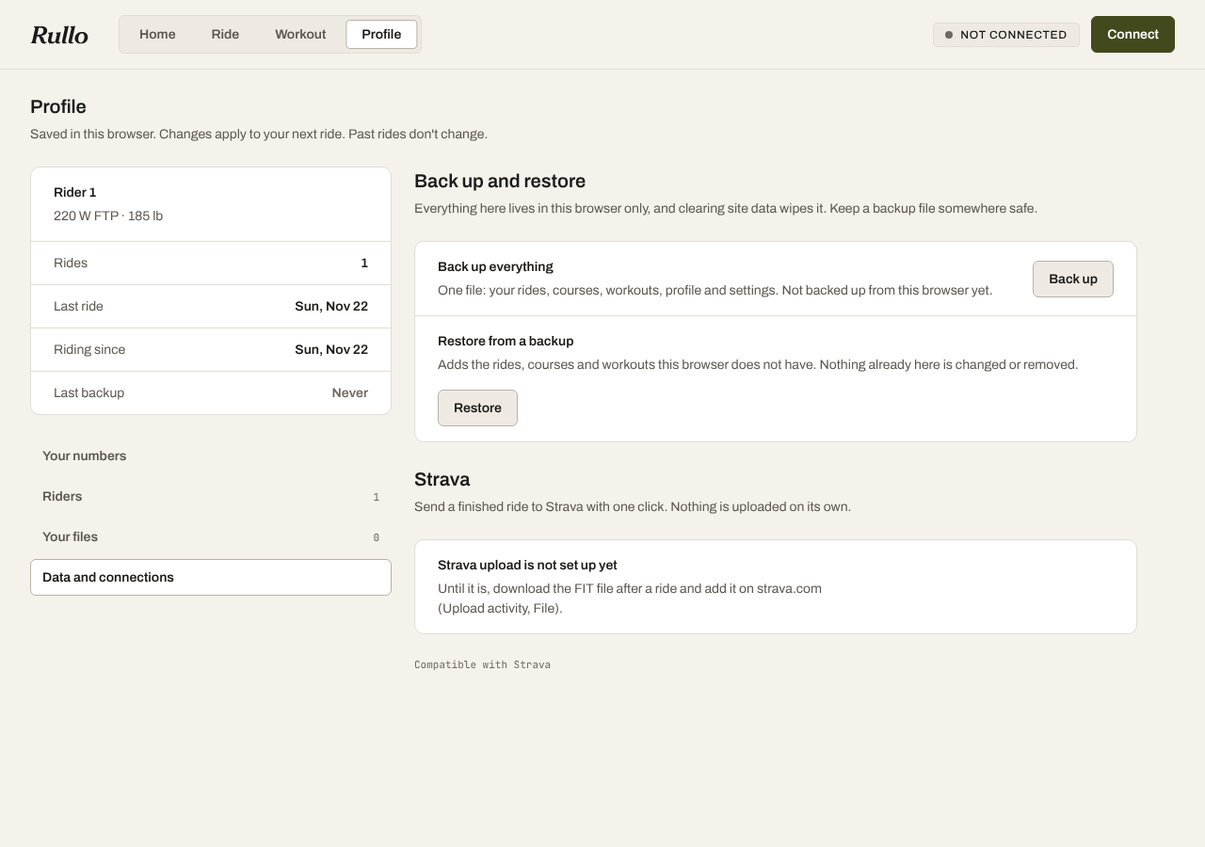
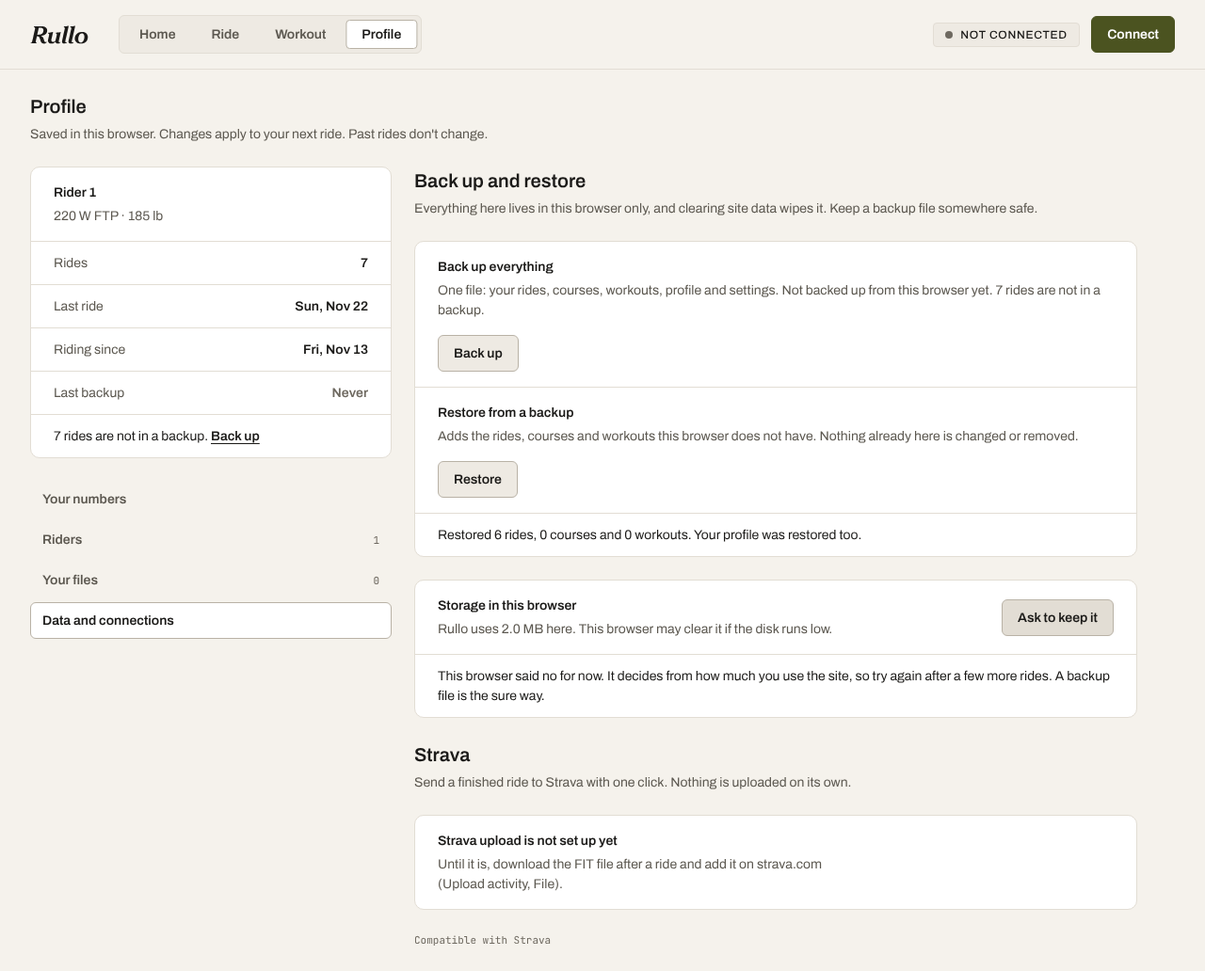
Profile tab pass 3: backup reminder and storage status
- From 5 rides that are in no backup, Home and the Profile rail say so,
  with a link to Back up. The Back up row counts them from the first
- A clean browser that restores a file counts that file as its backup
- Storage in this browser: how much the site uses and whether the browser
  has agreed not to clear it, with Ask to keep it while it has not

No ride or trainer code changed. See docs/profile.md.

Claude-Session: https://claude.ai/code/session_01Fy45Q7inhthMZ6VbcGRZ8r

diff --git a/src/components/ProfilePage.tsx b/src/components/ProfilePage.tsx
@@ -1,12 +1,13 @@
 import { useEffect, useMemo, useRef, useState, type ReactNode } from 'react'
 import { POSITIONS, type Position } from '../config'
 import { PROFILE_SECTIONS, profileHref, type ProfileSection } from '../hooks/useRoute'
-import { lastBackupAt } from '../lib/backup'
+import { BACKUP_NUDGE_RIDES, lastBackupAt, ridesSinceBackup } from '../lib/backup'
 import { dismissFtpSuggestion, FTP_SOURCE_LABEL, loadFtpHistory, SUGGEST_DAYS, suggestFtp } from '../lib/ftpHistory'
 import { loadHistory, peekHistory, type RideSummary } from '../lib/history'
 import { MPS_TO_MPH, steadySpeedMps } from '../lib/physics'
 import { hasSavedProfile, riderParams, type Profile } from '../lib/profile'
 import { dateOf } from '../lib/rideFormat'
+import { askToKeep, formatBytes, storageStatus, type StorageStatus } from '../lib/storage'
 import { MAX_RIDER_NAME_CHARS, MAX_RIDERS, type Riders } from '../lib/rider'
 import type { CourseOption, WorkoutOption } from '../lib/ride'
 import { formatDuration } from '../lib/workout'
@@ -359,6 +360,31 @@ export function ProfilePage({
 
   // Read again after a back up, a restore or a change to the numbers: each can change the answer.
   const backedUpAt = useMemo(() => lastBackupAt(), [backupNote])
+  const unsaved = rides ? ridesSinceBackup(rides, backedUpAt) : 0
+
+  /** What the browser says about this site's storage. Null until it answers; read again after a back up or a restore. */
+  const [storage, setStorage] = useState<StorageStatus | null>(null)
+  /** The outcome of asking the browser to keep the data, in plain words. */
+  const [keepNote, setKeepNote] = useState<string | null>(null)
+  useEffect(() => {
+    if (section !== 'data') return
+    let live = true
+    void storageStatus().then((st) => live && setStorage(st))
+    return () => {
+      live = false
+    }
+  }, [section, backupNote, ridePhase])
+  const onKeep = () => {
+    void askToKeep().then(async (kept) => {
+      setKeepNote(
+        kept
+          ? null
+          : 'This browser said no for now. Browsers decide this on their own, so it may say yes later. A backup file is the sure way.',
+      )
+      setStorage(await storageStatus())
+    })
+  }
+
   const starting = useMemo(() => !hasSavedProfile(), [profile, backupNote])
 
   /** Oldest first. Read again when the FTP changes, and after a restore, which can bring a history with it. */
@@ -398,6 +424,14 @@ export function ProfilePage({
               <Fact label="Riding since" value={since !== null ? day(since) : EMPTY} dim={since === null} />
               <Fact label="Last backup" value={backedUpAt !== null ? day(backedUpAt) : 'Never'} dim={backedUpAt === null} />
             </dl>
+            {unsaved >= BACKUP_NUDGE_RIDES && (
+              <p className="border-t border-line px-6 py-3 text-fg">
+                {unsaved} rides are not in a backup.{' '}
+                <a className="ww-link" href={profileHref('data')}>
+                  Back up
+                </a>
+              </p>
+            )}
           </section>
 
           <nav aria-label="Profile sections" className="flex flex-col gap-1">
@@ -666,7 +700,7 @@ export function ProfilePage({
                   label="Back up everything"
                   help={`One file: your rides, courses, workouts, profile and settings. ${
                     backedUpAt !== null ? `Last backed up ${day(backedUpAt)}.` : 'Not backed up from this browser yet.'
-                  }`}
+                  }${unsaved > 0 ? ` ${unsaved} ${unsaved === 1 ? 'ride is' : 'rides are'} not in a backup.` : ''}`}
                 >
                   <Button onClick={onBackup}>Back up</Button>
                 </Row>
@@ -693,6 +727,30 @@ export function ProfilePage({
                 {backupNote && (
                   <p className="border-t border-line px-6 py-3 text-fg" aria-live="polite">
                     {backupNote}
+                  </p>
+                )}
+              </section>
+
+              <section aria-label="Storage" className="rounded-lg border border-line bg-surface">
+                <Row
+                  label="Storage in this browser"
+                  help={
+                    storage === null
+                      ? 'Asking the browser.'
+                      : `${storage.usedBytes !== null ? `Rullo uses ${formatBytes(storage.usedBytes)} here. ` : ''}${
+                          storage.kept === true
+                            ? 'This browser has agreed not to clear it on its own. Clearing site data yourself still wipes it.'
+                            : storage.kept === false
+                              ? 'This browser may clear it if the disk runs low.'
+                              : 'This browser does not say whether it may clear it.'
+                        }`
+                  }
+                >
+                  {storage?.kept === false && <Button onClick={onKeep}>Ask to keep it</Button>}
+                </Row>
+                {keepNote && storage?.kept !== true && (
+                  <p className="border-t border-line px-6 py-3 text-fg" aria-live="polite">
+                    {keepNote}
                   </p>
                 )}
               </section>

diff --git a/src/lib/backup.ts b/src/lib/backup.ts
@@ -140,6 +140,22 @@ export function lastBackupAt(): number | null {
   }
 }
 
+function noteBackupAt(t: number): void {
+  try {
+    localStorage.setItem(LAST_BACKUP_KEY, String(t))
+  } catch {
+    // storage unavailable: nothing to note it in
+  }
+}
+
+/** From this many rides with no backup, Home and the Profile tab say so. */
+export const BACKUP_NUDGE_RIDES = 5
+
+/** How many of these rides started after the rider's last backup: all of them when there has been none. */
+export function ridesSinceBackup(rides: { startedAt: number }[], at: number | null = lastBackupAt()): number {
+  return at === null ? rides.length : rides.filter((r) => r.startedAt > at).length
+}
+
 /** Build the backup and hand it to the browser as a download. */
 export async function downloadBackup(): Promise<BackupCounts> {
   const { file, counts } = await buildBackup()
@@ -151,11 +167,7 @@ export async function downloadBackup(): Promise<BackupCounts> {
   a.click()
   a.remove()
   setTimeout(() => URL.revokeObjectURL(url), 10000)
-  try {
-    localStorage.setItem(LAST_BACKUP_KEY, String(file.exportedAt))
-  } catch {
-    // storage unavailable: the file was still made
-  }
+  noteBackupAt(file.exportedAt)
   return counts
 }
 
@@ -301,7 +313,11 @@ export async function restoreBackup(file: File): Promise<RestoreResult> {
   // computer. A browser that already has rides keeps its own, and what is restored joins it.
   // Not when another rider on this browser already has that id: then the rows simply join whoever is riding.
   const adopt = riderId !== null && !knownRiderIds().includes(riderId) && (await recorder.nothingSaved()) ? riderId : undefined
+  // With nothing saved here before, every ride after the restore is in this file: the file is the last backup.
+  const wasEmpty = await recorder.nothingSaved()
   const counts = await recorder.importRows(rows, adopt)
+  const exportedAt = isObject(data) ? data.exportedAt : null
+  if (wasEmpty && isNum(exportedAt) && exportedAt > 0 && exportedAt <= Date.now() && lastBackupAt() === null) noteBackupAt(exportedAt)
   // The name comes along with the id, unless another rider here has it.
   if (adopt && riderName) renameRider(adopt, riderName)
   let profile: Profile | null = null

diff --git a/src/lib/storage.ts b/src/lib/storage.ts
@@ -1,0 +1,52 @@
+/**
+ * What the browser says about this site's storage: how much is used, and
+ * whether it has promised not to clear it on its own. Rides, courses and
+ * workouts all live here, so the Profile tab shows both.
+ *
+ * A browser may clear a site's data when the disk runs low unless the site
+ * has been granted persistent storage. Chrome and Edge decide that without
+ * asking the rider (how they decide is not documented, so the app only reports
+ * the answer); other browsers may show a prompt, so it is only ever
+ * asked for from a button.
+ */
+
+export interface StorageStatus {
+  /** Bytes this site uses, or null when the browser will not say. */
+  usedBytes: number | null
+  /** True: the browser will not clear this site on its own. False: it may. Null: it will not say. */
+  kept: boolean | null
+}
+
+export async function storageStatus(): Promise<StorageStatus> {
+  const out: StorageStatus = { usedBytes: null, kept: null }
+  try {
+    const est = await navigator.storage?.estimate?.()
+    if (est && typeof est.usage === 'number') out.usedBytes = est.usage
+  } catch {
+    // not available: say nothing about size
+  }
+  try {
+    const kept = await navigator.storage?.persisted?.()
+    if (typeof kept === 'boolean') out.kept = kept
+  } catch {
+    // not available: say nothing about the promise
+  }
+  return out
+}
+
+/** Ask the browser to keep this site's data. Returns its answer: false is a no, null is no answer. */
+export async function askToKeep(): Promise<boolean | null> {
+  try {
+    const kept = await navigator.storage?.persist?.()
+    return typeof kept === 'boolean' ? kept : null
+  } catch {
+    return null
+  }
+}
+
+/** "0.4 MB", "12 MB", "1.2 GB". */
+export function formatBytes(n: number): string {
+  const mb = n / (1024 * 1024)
+  if (mb >= 1024) return `${(mb / 1024).toFixed(1)} GB`
+  return `${mb >= 10 ? Math.round(mb) : mb.toFixed(1)} MB`
+}

diff --git a/src/components/HomePage.tsx b/src/components/HomePage.tsx
@@ -15,7 +15,8 @@ import {
   type Totals,
 } from '../lib/history'
 import { dateOf, feet, hms, miles, setupOf } from '../lib/rideFormat'
-import { summaryHref } from '../hooks/useRoute'
+import { profileHref, summaryHref } from '../hooks/useRoute'
+import { BACKUP_NUDGE_RIDES, ridesSinceBackup } from '../lib/backup'
 import type { RideSnapshot } from '../lib/ride'
 import { Button } from './Button'
 import { Stat } from './Stat'
@@ -131,6 +132,8 @@ export function HomePage({ s, riderName, onSetup, onRide }: HomePageProps) {
   const prs = useMemo(() => (rides && complete ? prsByRide(rides) : new Map<number, BestWindow[]>()), [rides, complete])
 
   const next = nextStep(s)
+  /** Rides that are in no backup. Waits for the full list, like the totals. */
+  const unsaved = useMemo(() => (rides && complete ? ridesSinceBackup(rides) : 0), [rides, complete])
 
   const onDownload = (r: RideSummary) => {
     setMessage(null)
@@ -184,6 +187,17 @@ export function HomePage({ s, riderName, onSetup, onRide }: HomePageProps) {
               {next.ride ? 'Go to Ride' : 'Set up a ride'}
             </Button>
           </section>
+
+          {unsaved >= BACKUP_NUDGE_RIDES && (
+            <section aria-label="Back up" className="rounded-lg border border-line bg-surface px-6 py-4">
+              <p className="text-fg">
+                {unsaved} rides are not in a backup. They live in this browser only.{' '}
+                <a className="ww-link" href={profileHref('data')}>
+                  Back up
+                </a>
+              </p>
+            </section>
+          )}
 
           {rides && rides.length > 0 && (
             <section aria-label="Totals" className="rounded-lg border border-line bg-surface">

diff --git a/DESIGN.md b/DESIGN.md
@@ -165,14 +165,14 @@ A change of what is on the page is drawn as a move from the old layout to the ne
 ## Layout
 
 - **Top bar:** the Rullo wordmark (the solid version at `ww-wordmark-height`, 20px, in `fg`; a link to Home) and the page tabs (Home, Ride, Workout, Profile) left. With more than one rider on the browser, the current rider's name sits before the StatusPill in `ww-label`, truncated at 14 characters, a link to the Profile tab; from 1280px wide only, so the bar stays one row. With one rider it is not shown. StatusPill and the ride button right, on every page. The rightmost slot is the ride's next step: Connect (primary), then Start ride or Start workout (primary, with a secondary Disconnect to its left), then End Ride (secondary, two clicks), then Download FIT and New ride. Start has no row of its own, so it costs no height in any ride type and both labels are in one place. Connect or Start from another page jumps to Ride. A click on End Ride in the first second after Start is ignored, so a double click on Start cannot arm it. A click on New ride in the first second after Confirm end is ignored the same way.
-- **Home page (`#/`, where the app opens):** laid out after Zwift's home screen and drawn with this system's tokens: a left rail and a main column (`.ww-home`: the rail is `--ww-home-rail`, 384px; under 1200px the rail goes on top with its two panels side by side, so the history rows keep the full width; one column under 900px), capped at `max-w-7xl`, left-aligned under an `h1` "Home". Every block is its own `surface` panel with a body-size, weight 600 heading; no panel sits inside another. The rail: **Rider** (the rider's name as the heading, `Stat` for FTP in W and weight in lb, one `fg-muted` line "Set on the Profile tab.") and **Power zones** (`ZoneTable`). The main column, top to bottom: **Next** (one `fg-muted` sentence and the page's one primary button, "Set up a ride" or "Go to Ride"); **Totals** (two rows split by a hairline, "All rides" and "Last 7 days", each a wrapping row of `Stat`: Rides, Time, Distance in mi, Climbed in ft; shown only when there is a ride; "--" in `fg-subtle` while rides are still being read, so nothing moves when the numbers land); **Power bests** (heading, one line of help, then a wrapping row of four `Stat`: 5 s, 1 min, 5 min, 20 min in W, each over a mono `fg-subtle` line with the day it was set, or "no ride this long"; shown only when there is a ride); **Ride history** (heading, one line of help, then the ride history table). With no rides the history panel is its heading and one plain line, and there is no Totals panel. Nothing on Home changes a ride in progress; the only thing it can change is deleting a finished ride. On Home every top bar button is secondary (Connect, Start, Reconnect, Download FIT), so the page keeps one primary.
+- **Home page (`#/`, where the app opens):** laid out after Zwift's home screen and drawn with this system's tokens: a left rail and a main column (`.ww-home`: the rail is `--ww-home-rail`, 384px; under 1200px the rail goes on top with its two panels side by side, so the history rows keep the full width; one column under 900px), capped at `max-w-7xl`, left-aligned under an `h1` "Home". Every block is its own `surface` panel with a body-size, weight 600 heading; no panel sits inside another. The rail: **Rider** (the rider's name as the heading, `Stat` for FTP in W and weight in lb, one `fg-muted` line "Set on the Profile tab.") and **Power zones** (`ZoneTable`). The main column, top to bottom: **Next** (one `fg-muted` sentence and the page's one primary button, "Set up a ride" or "Go to Ride"); **Back up** (only from 5 rides that are in no backup: a one-line panel, an `fg` sentence and the `.ww-link` Back up, which opens the Profile tab's Data and connections; no button, so the page keeps one primary); **Totals** (two rows split by a hairline, "All rides" and "Last 7 days", each a wrapping row of `Stat`: Rides, Time, Distance in mi, Climbed in ft; shown only when there is a ride; "--" in `fg-subtle` while rides are still being read, so nothing moves when the numbers land); **Power bests** (heading, one line of help, then a wrapping row of four `Stat`: 5 s, 1 min, 5 min, 20 min in W, each over a mono `fg-subtle` line with the day it was set, or "no ride this long"; shown only when there is a ride); **Ride history** (heading, one line of help, then the ride history table). With no rides the history panel is its heading and one plain line, and there is no Totals panel. Nothing on Home changes a ride in progress; the only thing it can change is deleting a finished ride. On Home every top bar button is secondary (Connect, Start, Reconnect, Download FIT), so the page keeps one primary.
 - **Ride summary (`#/rides/<id>`):** a side trip from Home (the Home tab stays current in the top bar). One panel, split by hairlines, capped at `max-w-7xl`. Top to bottom: a header row (← Home, the day and start time as the title with a PR chip when the ride set one, a mono `fg-subtle` line with the course and workout, then Delete with its two-press `danger` confirm and the page's one primary, Download FIT); a wrapping row of `Stat` (Moving time, Distance in mi, Climbed in ft on a course ride, Avg power, Max power, Work in kJ, Avg cadence, and Avg and Max heart rate in bpm when the ride has any); **The ride** (one `RideChart` row each for Power, Cadence, Heart rate when there is any, and Elevation on a course ride, stacked over one shared mono time axis); **Time in zone** (the zone bars, at the FTP the ride was ridden at when the ride saved one, else today's; the help line says which); **Power bests** (four `Stat`, each over a PR chip when it was one). The top bar's buttons are secondary here. A ride that is not saved here shows a title, one sentence and a primary ← Home.
 - **Ride page (`#/ride`):** live data only: the ride panel, plus notices (recovery, errors). No pickers.
 - **Workout page (`#/workout`):** two steps, one at a time, under a mono "Step n of 2", the step title and one line of help. What is picked here is staged: it reaches the Ride tab only through Ride this workout or Done. The setup line says so in plain words. Its first row is the `ww-label` "Picked", the setup name and a mono detail; under it, in `fg-muted`, either "This is on the Ride tab now." or "Not on the Ride tab yet. The Ride tab has Flat road · Free ride." (naming what the Ride tab has). The setup can be changed until Start is pressed, with the trainer connected or not. Locked from Start until New ride (the ride's own setup line only, labeled Riding or Last ride).
   - **Step 1, the course:** a grid of cards on the page, the same card as step 2 (2 columns, 3 from 1280px, 4 from 1536px): Flat road first (a `line-strong` baseline where the profile would be), then one card per course with a small elevation profile (48px, `raised` fill, `fg-subtle` line), the name, and a mono line with miles, feet of climbing and source. The card picked on this tab is `raised` with an `fg` border (picked, not yet on the Ride tab). Under the grid, the selected course's overview in one panel: name, `CourseOverview`, and the start mile. Then the setup line in its own panel with Next (primary).
   - **Step 2, the workout library** (laid out after Zwift's Workouts page): a side menu on the left (All workouts, Custom, each with a mono count; the current one is a `surface` chip with a `line-strong` border, as in TabNav), then the filter row (Length and Difficulty, both SegmentedControl, and a mono count) over a grid of cards (2 columns, 3 from 1280px, 4 from 1536px). Cards sit straight on the page (`bg`), never inside a panel. The first card is always the Custom Workout tile (`raised`, `line-strong` border, a plus, the name at title size); then Free ride; then one card per workout: a small `WorkoutStrip` without labels (48px), the name, and a mono line with length, difficulty and source. The card of the picked workout (or Free ride) is `raised` with an `fg` border. Clicking a workout card opens its **overview** in place of the grid; looking does not pick it. Ride this workout picks it, puts the course and that workout on the Ride tab and goes there. The Free ride card picks "no workout" and stays on the page. The overview's mono line adds "on the Ride tab now" for the workout the Ride tab has: one panel with ← All workouts and the name, `Stat inline` for duration and intervals, the buttons (Edit for a custom workout, Edit a copy, Delete with a `danger` confirm for the rider's own, and the primary Ride this workout), the description, and the strip at `ww-builder-graph` height. Under both, the setup line in its own panel with Back, and "Done: go to Ride" (primary) when no overview is open, so there is one primary per screen. Done puts exactly the setup line beside it on the Ride tab. No import buttons here.
 - **Workout builder (`#/workout/build`):** a side trip from the Workout tab (the Workout tab stays current in the top bar). One panel, laid out after Zwift's workout editor and drawn with this system's tokens. Top to bottom, split by hairlines: a header row (← Back, the workout's name as the title in `ww-title-field`, a mono note); the details (Description left, the Difficulty tag right); the block area (`BuilderGraph`: the selected block's fields in a bordered `surface` box right above it, the graph, the block palette on the right, then Undo, Delete block and the key hint); the bottom bar (Display: % FTP / Watts, `Stat inline` for workout duration and intervals, a mono line, and the Step list toggle); the optional step list (`StepRow`, `RepeatGroup`, the add row); and a footer row with status text left and Save (primary) right. Back turns into `danger` "Discard changes" on the first click when there is unsaved work. The page may scroll. Locked mid-ride (one line in a panel).
-- **Profile page (`#/profile`, and `#/profile/riders`, `/files`, `/data`):** the Home grid again (`.ww-home`: a 384px rail and a main column; under 1200px the rail goes on top with its two blocks side by side; one column under 900px), capped at `max-w-7xl`, left-aligned under an `h1` "Profile" and one line of help. **The rail:** the Rider panel (the rider's name as the heading, one `fg-muted` line with FTP in W and weight in lb, then four hairline rows, label in `fg-muted` left and the value in weight 600 right: Rides, Last ride, Riding since, Last backup; "--" in `fg-subtle` while rides are read, "Never" and "None yet" in `fg-subtle`), then the section menu straight on the page: four links in the Workout library's side-menu pattern (the current one is a `surface` chip with a `line-strong` border; Riders and Your files carry a mono count). **The main column** shows one section at a time, capped at `max-w-3xl`: a title-size heading, one line of help, then its panels. No panel sits inside another. *Your numbers* (the default): a one-line panel "These are starting numbers, not yours…" until the rider first sets a number; a panel with Rider weight, Bike weight and Riding position rows (label and help left, input right) ending in the block "On the road at 200 W" (three `Stat`: Flat road and 5% climb in mph, You and the bike in lb; they follow the rows above as they change); a second panel with the FTP row (under its help, a mono `fg-subtle` line with the day it was set and how: "set Sun, Nov 22 · ramp test") and Power zones (`ZoneTable` under FTP, so it follows the FTP as it changes); between the two, only when the rider's best 20 minutes of the last 60 days points above their FTP, one row "Your rides point to a higher FTP" (heading, one `fg-muted` sentence with the numbers, then secondary Not now and secondary "Set FTP to 247 W"; never a primary, and the FTP never changes without that press); a third panel, FTP history: heading, one line of help, then a plain table (`.ww-table .ww-history`), newest first: the day in weight 600, how it was set in `fg-muted` (Typed, Ramp test, Best 20 minutes), the change in mono `fg-muted` ("up 27 W from 220"), and the FTP right-aligned in weight 600 `tabular-nums`; 8 rows, then a footer row with a count and a `size="sm"` Show all. *Riders*: "Who's riding", one panel in the files-row pattern: a header row (heading, one line of help, a secondary Add rider), then one row per rider split by hairlines. The current rider's row is their name in a `TextField` (weight 600, saved when the field is left) and a mono `fg-muted` "riding now". Every other rider's row is the name in weight 600 with secondary Switch and Remove. One `fg` line under the rows says what happened, or, while the trainer is connected or a ride is on, that switching is locked (Switch, Add rider and Remove are disabled then). Switching and adding reload the page. *Your files*: one panel with a Courses block and a Workouts block, each a heading, one line of help and its buttons (Import GPX; Custom Workout and Import ZWO), followed by the rider's own files as rows: a custom workout has Edit and Remove (Remove asks twice, `danger` "Confirm remove"), an imported workout has Edit a copy and Remove, an imported course has Remove. *Data and connections*: "Back up and restore" (one panel, two rows: Back up everything with a secondary Back up, its help ending with the day of the last backup or "Not backed up from this browser yet."; Restore from a backup with a secondary Restore; after either is used, one `fg` line saying what happened; Restore is locked mid-ride), then `StravaBlock`. Mid-ride, a one-line panel at the top of the main column says the profile is locked. The page has no primary button; the top bar keeps its own.
+- **Profile page (`#/profile`, and `#/profile/riders`, `/files`, `/data`):** the Home grid again (`.ww-home`: a 384px rail and a main column; under 1200px the rail goes on top with its two blocks side by side; one column under 900px), capped at `max-w-7xl`, left-aligned under an `h1` "Profile" and one line of help. **The rail:** the Rider panel (the rider's name as the heading, one `fg-muted` line with FTP in W and weight in lb, then four hairline rows, label in `fg-muted` left and the value in weight 600 right: Rides, Last ride, Riding since, Last backup; from 5 rides that are in no backup, a fifth row: one `fg` sentence ("7 rides are not in a backup.") and the `.ww-link` Back up, which opens Data and connections; "--" in `fg-subtle` while rides are read, "Never" and "None yet" in `fg-subtle`), then the section menu straight on the page: four links in the Workout library's side-menu pattern (the current one is a `surface` chip with a `line-strong` border; Riders and Your files carry a mono count). **The main column** shows one section at a time, capped at `max-w-3xl`: a title-size heading, one line of help, then its panels. No panel sits inside another. *Your numbers* (the default): a one-line panel "These are starting numbers, not yours…" until the rider first sets a number; a panel with Rider weight, Bike weight and Riding position rows (label and help left, input right) ending in the block "On the road at 200 W" (three `Stat`: Flat road and 5% climb in mph, You and the bike in lb; they follow the rows above as they change); a second panel with the FTP row (under its help, a mono `fg-subtle` line with the day it was set and how: "set Sun, Nov 22 · ramp test") and Power zones (`ZoneTable` under FTP, so it follows the FTP as it changes); between the two, only when the rider's best 20 minutes of the last 60 days points above their FTP, one row "Your rides point to a higher FTP" (heading, one `fg-muted` sentence with the numbers, then secondary Not now and secondary "Set FTP to 247 W"; never a primary, and the FTP never changes without that press); a third panel, FTP history: heading, one line of help, then a plain table (`.ww-table .ww-history`), newest first: the day in weight 600, how it was set in `fg-muted` (Typed, Ramp test, Best 20 minutes), the change in mono `fg-muted` ("up 27 W from 220"), and the FTP right-aligned in weight 600 `tabular-nums`; 8 rows, then a footer row with a count and a `size="sm"` Show all. *Riders*: "Who's riding", one panel in the files-row pattern: a header row (heading, one line of help, a secondary Add rider), then one row per rider split by hairlines. The current rider's row is their name in a `TextField` (weight 600, saved when the field is left) and a mono `fg-muted` "riding now". Every other rider's row is the name in weight 600 with secondary Switch and Remove. One `fg` line under the rows says what happened, or, while the trainer is connected or a ride is on, that switching is locked (Switch, Add rider and Remove are disabled then). Switching and adding reload the page. *Your files*: one panel with a Courses block and a Workouts block, each a heading, one line of help and its buttons (Import GPX; Custom Workout and Import ZWO), followed by the rider's own files as rows: a custom workout has Edit and Remove (Remove asks twice, `danger` "Confirm remove"), an imported workout has Edit a copy and Remove, an imported course has Remove. *Data and connections*: "Back up and restore" (one panel, two rows: Back up everything with a secondary Back up, its help ending with the day of the last backup or "Not backed up from this browser yet."; Restore from a backup with a secondary Restore; after either is used, one `fg` line saying what happened; Restore is locked mid-ride; the Back up row's help also counts the rides that are in no backup), then a Storage panel (one row, "Storage in this browser": how much the site uses and whether the browser has agreed not to clear it; a secondary "Ask to keep it" only while the browser says it may clear it, and one `fg` line under a hairline when it says no), then `StravaBlock`. Mid-ride, a one-line panel at the top of the main column says the profile is locked. The page has no primary button; the top bar keeps its own.
 - **One ride panel:** hero power tile on the left (two fifths of the width at 1280px and up), five tiles on the right in two rows, split by `line` hairlines: Cadence, Heart rate and Speed on top (9 : 8 : 8, Cadence a little wider for its cue), Distance and Time below at half width each (they hold the long values, 112.34 mi and 1:23:45). The Heart rate tile is always there, so the layout never changes: "--" with a Connect control in its label row when there is no sensor. On a course, a full-width elevation profile row comes next; with a workout, a workout row. With both, both rows show in compact form: labels sit beside their numbers on one line (`Stat inline`), the profile is 48px and the strip 56px, and the workout name truncates before anything wraps. A full-width control row sits along the bottom. All rows are in the same panel, split by hairlines. When the workout's current interval has a cadence target, the Cadence tile's label row shows it in mono ("target 90"; the tile's unit is rpm): `fg-muted` before the workout starts, then `state-on`, `state-under` or `state-over` within or outside 5 rpm, always with the word (on, under, over) so color is never the only signal. It is a cue; the trainer never gets it. On a course, the right end of the course row's stats line says what the course is setting, in `fg-muted`: "The course sets speed, not the load." or, in Grade, "The course sets speed and the load." Before the workout starts, the right end of the workout row reads "Connect to start" or "Press Start workout" (not in compact form); the button itself is in the top bar.
 - **Fit a laptop:** at 1280x720 the control row and its key hint must stay on screen in every ride type. With a course or workout row the tiles and control row use 16px vertical padding (24px on a free ride). The control row status is always two lines, one line each, so nothing moves when the words change: who sets the load (`fg`), then the detail (`fg-muted`): "Press Start ride.", "Paused. Pedal to resume.", "Released until 60 rpm.", "Easing in to target", "Intensity, every target", "Hill feel · trainer 3.2%", "Workout targets are off.", "Refused. Retrying." At 1280 on a course the status has about 180px: keep every line under 160px (about 24 characters) so the key hint stays on one line. The key hint is the same in every mode ("↑↓ 1 · +/− 5 · shift ↑↓ 10 · E mode"); the unit is on the value beside it. Below 1280 wide the page may scroll with a course or workout row; Nate accepted that on Nov 21, 2026, so do not remove a number or a row to make 1024 fit.
 - Left-aligned. No centered hero layouts.
@@ -186,7 +186,7 @@ A change of what is on the page is drawn as a move from the old layout to the ne
 | Tile link (`.ww-tile-link`) | A text control in a tile's label row, for the Heart rate tile only: label type (12px, uppercase) in `fg`, underlined, `fg-muted` on hover, so the row keeps its 16px line and the panel its height. One button for every sensor state: Connect, Connecting (plain `fg-muted`, not pressable), Disconnect, Reconnecting (`state-under`; pressing it stops the retries), Retry. It is never a `Button`: a button would make the tile taller than 1280x720 allows. 8px of padding on each side widens the click target without moving anything. |
 | `StravaBlock` | The Profile tab's Strava section, the last block on the page: a heading with one line of help, then one panel with one row. Not set up: "Strava upload is not set up yet" and how to upload by hand. Not connected: one line of help and Strava's own connect button (see The Strava exception). Connected: "Connected as" the athlete's name, and a secondary Disconnect. A message (sign-in cancelled, access removed) is one `fg` line under a hairline in the same panel. Connecting leaves the page, so mid-ride the row says to end the ride first. |
 | `StravaUpload` | The ended ride's Strava slot in the top bar, left of Download FIT. One of: **Upload to Strava** (the screen's primary; Download FIT turns secondary so there is still one), a disabled button that says what is happening ("Uploading to Strava", "Strava is processing"), **Check upload** when Strava is still working after a minute, the `ww-label` "Uploaded" or "Already on Strava" with the **View on Strava** link (`.ww-link`; Download FIT is primary again), or a secondary **Connect Strava to upload** that goes to Profile. Not shown at all when Strava is not set up, for a fake-trainer ride, or when nothing was recorded. A failure is a notice above the ride panel in plain words. |
-| Link (`.ww-link`) | A text link in a bar or a sentence: weight 600, underlined, `fg`, `fg-muted` on hover. Used for View on Strava. |
+| Link (`.ww-link`) | A text link in a bar or a sentence: weight 600, underlined, `fg`, `fg-muted` on hover. Used for View on Strava, and for Back up in the backup reminder on Home and in the Profile rail. |
 | `StatusPill` | Connection and ride state. `busy` makes the dot breathe (Connecting, Reconnecting); the width eases and the label crossfades when the words change (see Motion). Tones: `on` (Connected: a ride is on and recording), `warn` (Connecting, Reconnecting, Not recording: connected and waiting for Start), `error` (Disconnected, Not supported), `idle` (Not connected, Paused, Ride ended). |
 | `Button` | `primary` (Olive, one per screen), `secondary`, `danger` (the second click of a two-click confirm: End Ride, Discard changes, Confirm remove, Confirm delete; hover goes to `surface` so the red text keeps 4.5:1). `size="sm"` (8px by 4px padding) only for dense rows: the builder's step rows and the ride history rows. |
 | `SegmentedControl` | Small option sets, like the 1s / 3s / 10s smoothing toggle. Selected option is a `surface` chip with a `line-strong` border; hover only darkens text. The chip is one element that slides to the selected option (see Motion). One Tab stop, Left / Right arrows move the selection. |

diff --git a/CLAUDE.md b/CLAUDE.md
@@ -2,7 +2,7 @@
 
 Read `Weem Watts App Scope.md` and `DESIGN.md` before any work. Use only DESIGN.md tokens and components. Stay inside the current phase.
 
-- **Current phase:** v3.2, Workouts (built, ride test pending). v1 and v1.5 have shipped. v2 and v3.1 are built; their ride tests are pending (Nate chose to build ahead). Do not start v3.3 until v3.2 has been ride-tested. Exception, Nov 20, 2026: Nate asked for Grade mode (the trainer follows course hills when no workout is picked), which is part of v4; it is built and its ride test is pending too. Second exception, Nov 20, 2026: Nate asked for the workout builder (the step-list editor from "Later", with cadence cues); it is built ahead of the v3.2 ride test and its own ride test is pending. See `docs/workout-builder.md`. Third exception, Nov 20, 2026: Nate asked for a Home tab (rider summary, totals and ride history from saved rides) and a power zones chart; both are built ahead and need no ride test, because no trainer code changed. On Nov 21, 2026 he added to it: delete a ride, a ride summary (`#/rides/<id>`), power bests with PR tags, and back up and restore on the Profile tab. See `docs/home-tab.md`. On Nov 22, 2026 he asked for a better Profile tab; pass 1 (a rider rail and one section at a time, at `#/profile/<section>`) and pass 2 (FTP history, the FTP saved on each ride, a suggested FTP from the best 20 minutes) are built and need no ride test. See `docs/profile.md`. Also Nov 21, 2026: every saved ride, course and workout is stamped with a rider id and read through it (`src/lib/rider.ts`, `docs/riders.md`); a rider picker ("Who's riding" on the Profile tab) lets a browser hold several riders. Any new saved record must go through `recorder.ts` so it gets its rider, and any new per-rider localStorage key must be added to `RIDER_KEYS` in `rider.ts` so it moves with its rider. Another exception, Nov 20, 2026: Nate asked for heart rate (a standard Bluetooth sensor, its own tile, saved to the FIT); it is built and its ride test with the watch is pending. See `docs/heart-rate-and-strava.md`. Another exception, Nov 21, 2026: Nate asked for calories in the FIT file and for Strava upload (one click after End Ride); both are built, and the first real upload is pending. Another exception, Nov 21, 2026: Nate asked for Motion Phase 1 (motion polish on the Ride screen: the breathing status dot, first-data and interval-change enters, the zone chip on the Power tile, glide for the playhead and course dot, the stepper cue and the sliding chip); it is built and its ride test is pending. No new dependency, no change to trainer code. The rules are the Motion section of DESIGN.md; see `docs/motion.md`. On Nov 22, 2026 he asked for Motion Phase 2 (layout moves on the Workout tab: the step slide, a workout card opening into its overview, filter reflow, the course profile's draw-in); it is built with the browser's View Transitions, with no new dependency, and needs no ride test because nothing on the Ride tab or in trainer code changed. Layout moves must stay off the Ride tab. Phase 3 of motion is not started. Movie Mode is unscheduled ("Later" in the scope doc). Nate rode a first workout on the Kickr on Nov 20, 2026, and it worked; the fixes from that ride are in `docs/ride-fixes.md` ("After the first workout ride"). No phase is marked ride-tested yet: Nate has not said which ones passed.
+- **Current phase:** v3.2, Workouts (built, ride test pending). v1 and v1.5 have shipped. v2 and v3.1 are built; their ride tests are pending (Nate chose to build ahead). Do not start v3.3 until v3.2 has been ride-tested. Exception, Nov 20, 2026: Nate asked for Grade mode (the trainer follows course hills when no workout is picked), which is part of v4; it is built and its ride test is pending too. Second exception, Nov 20, 2026: Nate asked for the workout builder (the step-list editor from "Later", with cadence cues); it is built ahead of the v3.2 ride test and its own ride test is pending. See `docs/workout-builder.md`. Third exception, Nov 20, 2026: Nate asked for a Home tab (rider summary, totals and ride history from saved rides) and a power zones chart; both are built ahead and need no ride test, because no trainer code changed. On Nov 21, 2026 he added to it: delete a ride, a ride summary (`#/rides/<id>`), power bests with PR tags, and back up and restore on the Profile tab. See `docs/home-tab.md`. On Nov 22, 2026 he asked for a better Profile tab; pass 1 (a rider rail and one section at a time, at `#/profile/<section>`) pass 2 (FTP history, the FTP saved on each ride, a suggested FTP from the best 20 minutes) and pass 3 (a backup reminder on Home and Profile, storage status) are built and need no ride test. See `docs/profile.md`. Also Nov 21, 2026: every saved ride, course and workout is stamped with a rider id and read through it (`src/lib/rider.ts`, `docs/riders.md`); a rider picker ("Who's riding" on the Profile tab) lets a browser hold several riders. Any new saved record must go through `recorder.ts` so it gets its rider, and any new per-rider localStorage key must be added to `RIDER_KEYS` in `rider.ts` so it moves with its rider. Another exception, Nov 20, 2026: Nate asked for heart rate (a standard Bluetooth sensor, its own tile, saved to the FIT); it is built and its ride test with the watch is pending. See `docs/heart-rate-and-strava.md`. Another exception, Nov 21, 2026: Nate asked for calories in the FIT file and for Strava upload (one click after End Ride); both are built, and the first real upload is pending. Another exception, Nov 21, 2026: Nate asked for Motion Phase 1 (motion polish on the Ride screen: the breathing status dot, first-data and interval-change enters, the zone chip on the Power tile, glide for the playhead and course dot, the stepper cue and the sliding chip); it is built and its ride test is pending. No new dependency, no change to trainer code. The rules are the Motion section of DESIGN.md; see `docs/motion.md`. On Nov 22, 2026 he asked for Motion Phase 2 (layout moves on the Workout tab: the step slide, a workout card opening into its overview, filter reflow, the course profile's draw-in); it is built with the browser's View Transitions, with no new dependency, and needs no ride test because nothing on the Ride tab or in trainer code changed. Layout moves must stay off the Ride tab. Phase 3 of motion is not started. Movie Mode is unscheduled ("Later" in the scope doc). Nate rode a first workout on the Kickr on Nov 20, 2026, and it worked; the fixes from that ride are in `docs/ride-fixes.md` ("After the first workout ride"). No phase is marked ride-tested yet: Nate has not said which ones passed.
 - **Server exception, Nov 21, 2026:** the app has no server, no accounts and no database, with one exception Nate made for Strava upload only: the stateless functions in `/api/strava` (shared code in `server/strava.js`). They exist to keep the Strava client secret out of the browser. Keep them stateless and small: no database, no accounts, no logging of tokens or ride data, no new dependencies. The secret is read only from `STRAVA_CLIENT_ID` / `STRAVA_CLIENT_SECRET` in Vercel and must never reach the bundle, the repo, a log or an error message. Nothing else in the app may start depending on a server, and the app must work fully without the functions. Do not use Strava data for AI; the app reads none.
 - **Units:** lb, miles, feet and bpm everywhere a person reads them (UI and config). Never show kg, km or meters. SI stays inside `src/lib` (physics, course, FIT) and is converted at display.
 - **Colors:** hex values live only in `src/styles/tokens.css`. The one exception is Strava's own button image in `public/strava/` (see "The Strava exception" in DESIGN.md).

diff --git a/docs/profile.md b/docs/profile.md
@@ -70,7 +70,37 @@ The FTP had no memory: no date, no source, and a ramp test left no trace. Old ri
 
 - The ramp test's own Set FTP on a real or fake ride. It calls the same `logFtpChange` as typing; the path through a finished test was not run.
 
-### Not built yet
+## Pass 3: backup reminder and storage, Nov 22, 2026
 
-- **Pass 3:** storage used, a request for persistent storage, and a nudge after rides with no backup.
+Rides live in one browser. The backup file is the only copy, and nothing said when it was getting old.
+
+### What was built
+
+- **A reminder from 5 rides that are in no backup:** one line on Home (under Next) and one in the Profile rail, each with a Back up link to Data and connections. The Back up row counts them too, from the first.
+- **Storage in this browser**, a panel in Data and connections: how much the site uses, and whether the browser has agreed not to clear it on its own. "Ask to keep it" shows only while the browser says it may clear it.
+
+### Calls
+
+- **A ride is "in a backup" when it started before the last Back up press.** With no backup, every ride counts.
+- **5 rides**, a constant in `src/lib/backup.ts`. Fewer would nag a new rider; more risks a week of riding.
+- **A sentence and a link, not a button and not a state color.** Home keeps its one primary. The reminder is calm and stays until a backup is made; there is no dismiss.
+- **A clean browser that restores a file counts that file as its backup** (the file's own date), so a restore of 50 rides does not open with a reminder. A browser that already had rides does not: some of its rides may be in no file. This replaces pass 1's "a restore does not set it".
+- **The browser is asked only from the button.** Chrome and Edge answer without a prompt, but another browser may show one, and a prompt at page load would come from nowhere.
+- **The app reports the answer and does not explain it.** How Chrome decides is not documented. A no reads "Browsers decide this on their own, so it may say yes later."
+- **Even a yes is not a backup.** The row says clearing site data still wipes it.
+- **Home changed by one panel** that shows only for the reminder. No ride or trainer code changed.
+
+### Checked (headless Chromium, production build, `?fake=1`)
+
+- One ride: no reminder. Six more restored into that browser: "7 rides are not in a backup" on Home and in the rail, and the link opens Data and connections. Back up clears both.
+- A clean browser restoring the same six rides: no reminder, and Last backup is the file's day.
+- Storage row: size shown; "may clear it" with the button; a no gives the line under it. With the browser reporting a yes: "has agreed not to clear it" and no button.
+- Ride tab numbers update each second. No sideways scroll on Home and Data and connections at 880 and 1024. No console errors.
+
+### Not checked
+
+- A real yes from Chrome. Headless Chromium says no; the yes was tested by standing in for the browser's answer.
+
+### Not built
+
 - **Left out on purpose:** units, W/lb, a photo, birthday, gender, country, heart rate zones, weekly goal and streak, a first-visit wizard, sign-in.

diff --git a/README.md b/README.md
@@ -151,6 +151,8 @@ Start the session on the watch (in the relay app). Rullo cannot start it for you
 Everything is saved in this browser only. Clearing site data wipes it, and another browser or computer starts empty.
 
 - **Back up** downloads one file (`rullo-backup-<date>.json`) with your finished rides, courses, workouts, profile and settings. About 220 KB per hour ridden. A backup made when the app was called Weem Watts (`weem-watts-backup-<date>.json`) still restores.
+- **A reminder:** from 5 rides that are in no backup, Home and the Profile tab say so, with a link to Back up. Pressing Back up clears it. A clean browser that restores a backup counts that file as its backup.
+- **Storage in this browser** (same section) shows how much the app uses and whether the browser has agreed not to clear it. **Ask to keep it** asks the browser; it may say no, and a backup file is still the sure way.
 - **Restore** reads a backup file and adds the rides, courses and workouts this browser does not have. It never changes or removes anything already here, so restoring twice is safe. Your profile and settings are restored only where this browser has none saved.
 - A damaged file, or one that is not a backup, is refused and nothing is changed.
 - A ride that was never ended is not in a backup. End it first.
